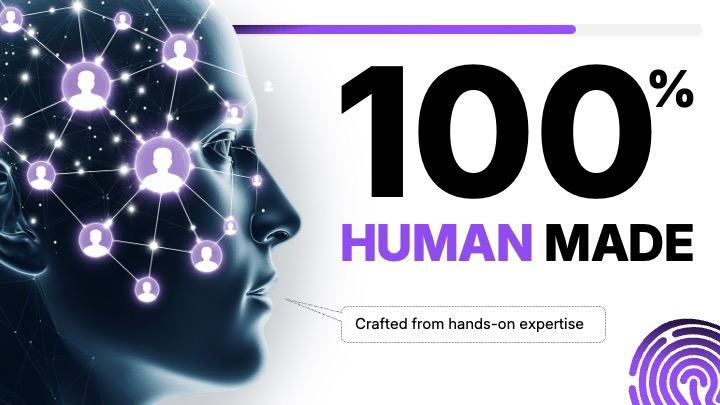
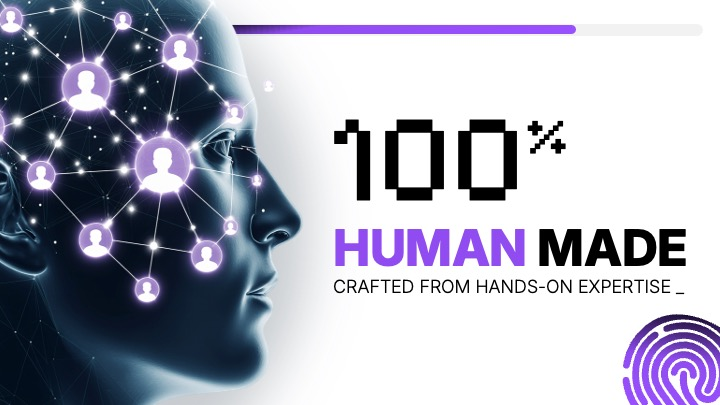
Новые слайды кейса «Маркетинговая стратегия»
Три слайда заменены на присланные (AINA 1/2/3 из assets/portfolio-primery),
порядок показа 1-2-3 сохранён. Кэш-бастинг слайдов поднят до ?v=3
в разметке и в списке лайтбокса.

diff --git a/index.html b/index.html
@@ -16,7 +16,7 @@
 <link rel="preconnect" href="https://fonts.gstatic.com" crossorigin>
 <link href="https://fonts.googleapis.com/css2?family=Unbounded:wght@500;600;700;800&family=Onest:wght@400;500;600;700&family=Big+Shoulders:opsz,wght@72,900&family=Bebas+Neue&display=swap" rel="stylesheet">
 
-<link rel="stylesheet" href="css/style.css?v=r100">
+<link rel="stylesheet" href="css/style.css?v=r101">
 </head>
 <body>
 
@@ -297,9 +297,9 @@
         <article class="case-card is-active" data-case="marketing-strategy" data-animate="fade-up">
           <div class="case-preview">
             <div class="case-slides">
-              <img src="images/gallery/marketing-strategy-1.jpg?v=2" alt="Слайд 1 презентации «Маркетинговая стратегия»" loading="lazy" class="is-active">
-              <img src="images/gallery/marketing-strategy-2.jpg?v=2" alt="Слайд 2 презентации «Маркетинговая стратегия»" loading="lazy">
-              <img src="images/gallery/marketing-strategy-3.jpg?v=2" alt="Слайд 3 презентации «Маркетинговая стратегия»" loading="lazy">
+              <img src="images/gallery/marketing-strategy-1.jpg?v=3" alt="Слайд 1 презентации «Маркетинговая стратегия»" loading="lazy" class="is-active">
+              <img src="images/gallery/marketing-strategy-2.jpg?v=3" alt="Слайд 2 презентации «Маркетинговая стратегия»" loading="lazy">
+              <img src="images/gallery/marketing-strategy-3.jpg?v=3" alt="Слайд 3 презентации «Маркетинговая стратегия»" loading="lazy">
             </div>
             <button class="case-arrow case-arrow-prev" data-slide-prev aria-label="Предыдущий слайд"><svg viewBox="0 0 24 24" fill="none" stroke="currentColor" stroke-width="2" stroke-linecap="round" stroke-linejoin="round" aria-hidden="true"><path d="M15 5 8 12l7 7"/></svg></button>
             <button class="case-arrow case-arrow-next" data-slide-next aria-label="Следующий слайд"><svg viewBox="0 0 24 24" fill="none" stroke="currentColor" stroke-width="2" stroke-linecap="round" stroke-linejoin="round" aria-hidden="true"><path d="m9 5 7 7-7 7"/></svg></button>
@@ -607,6 +607,6 @@
   <a class="btn btn-primary" href="#contact">Обсудить проект<span class="btn-arrow" aria-hidden="true"><svg viewBox="0 0 24 24" fill="none" stroke="currentColor" stroke-width="2" stroke-linecap="round" stroke-linejoin="round"><path d="M4 12h15m0 0-6-6m6 6-6 6"/></svg></span></a>
 </div>
 
-<script src="js/main.js?v=r100"></script>
+<script src="js/main.js?v=r101"></script>
 </body>
 </html>

diff --git a/js/main.js b/js/main.js
@@ -230,7 +230,7 @@
       // Порядок 1-2-3, а не 3-2-1 как у других кейсов: новые слайды пришли
       // уже пронумерованными в нужной последовательности. Здесь он обязан
       // совпадать с разметкой — иначе лайтбокс листает не то, что в карточке
-      images: ['images/gallery/marketing-strategy-1.jpg?v=2', 'images/gallery/marketing-strategy-2.jpg?v=2', 'images/gallery/marketing-strategy-3.jpg?v=2'],
+      images: ['images/gallery/marketing-strategy-1.jpg?v=3', 'images/gallery/marketing-strategy-2.jpg?v=3', 'images/gallery/marketing-strategy-3.jpg?v=3'],
     },
     'dashboards': {
       title: 'Примеры графиков и дашбордов',
